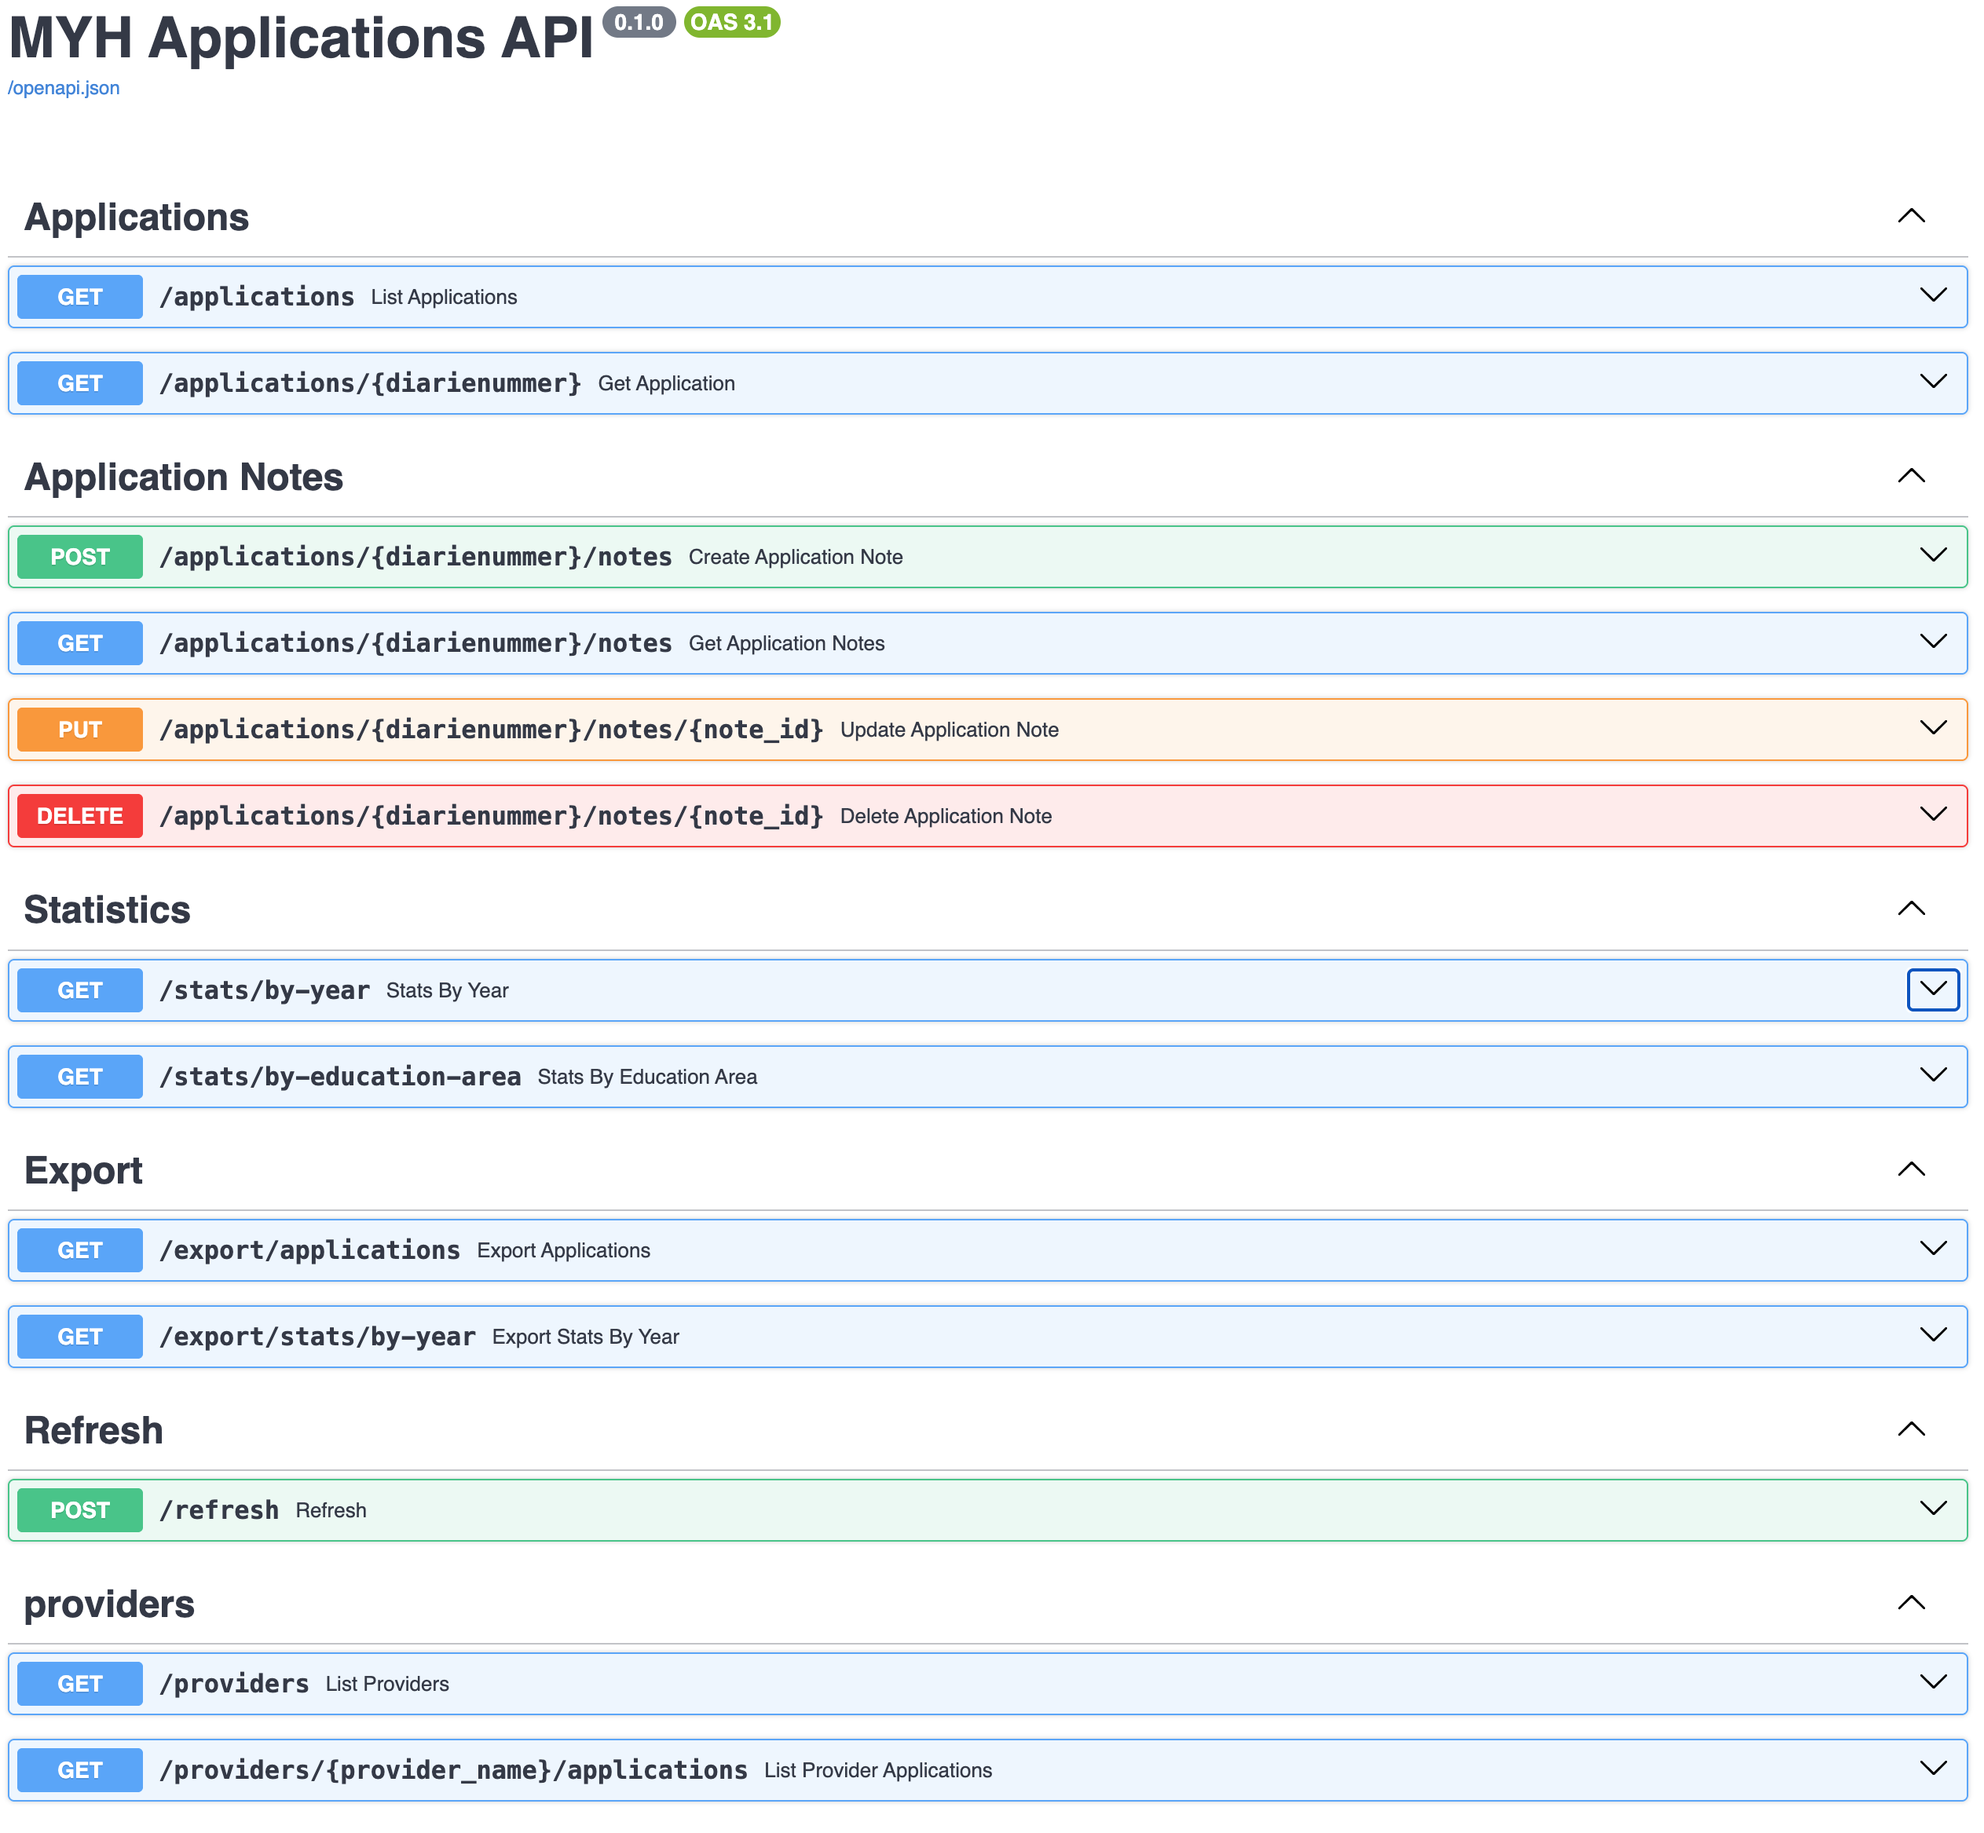
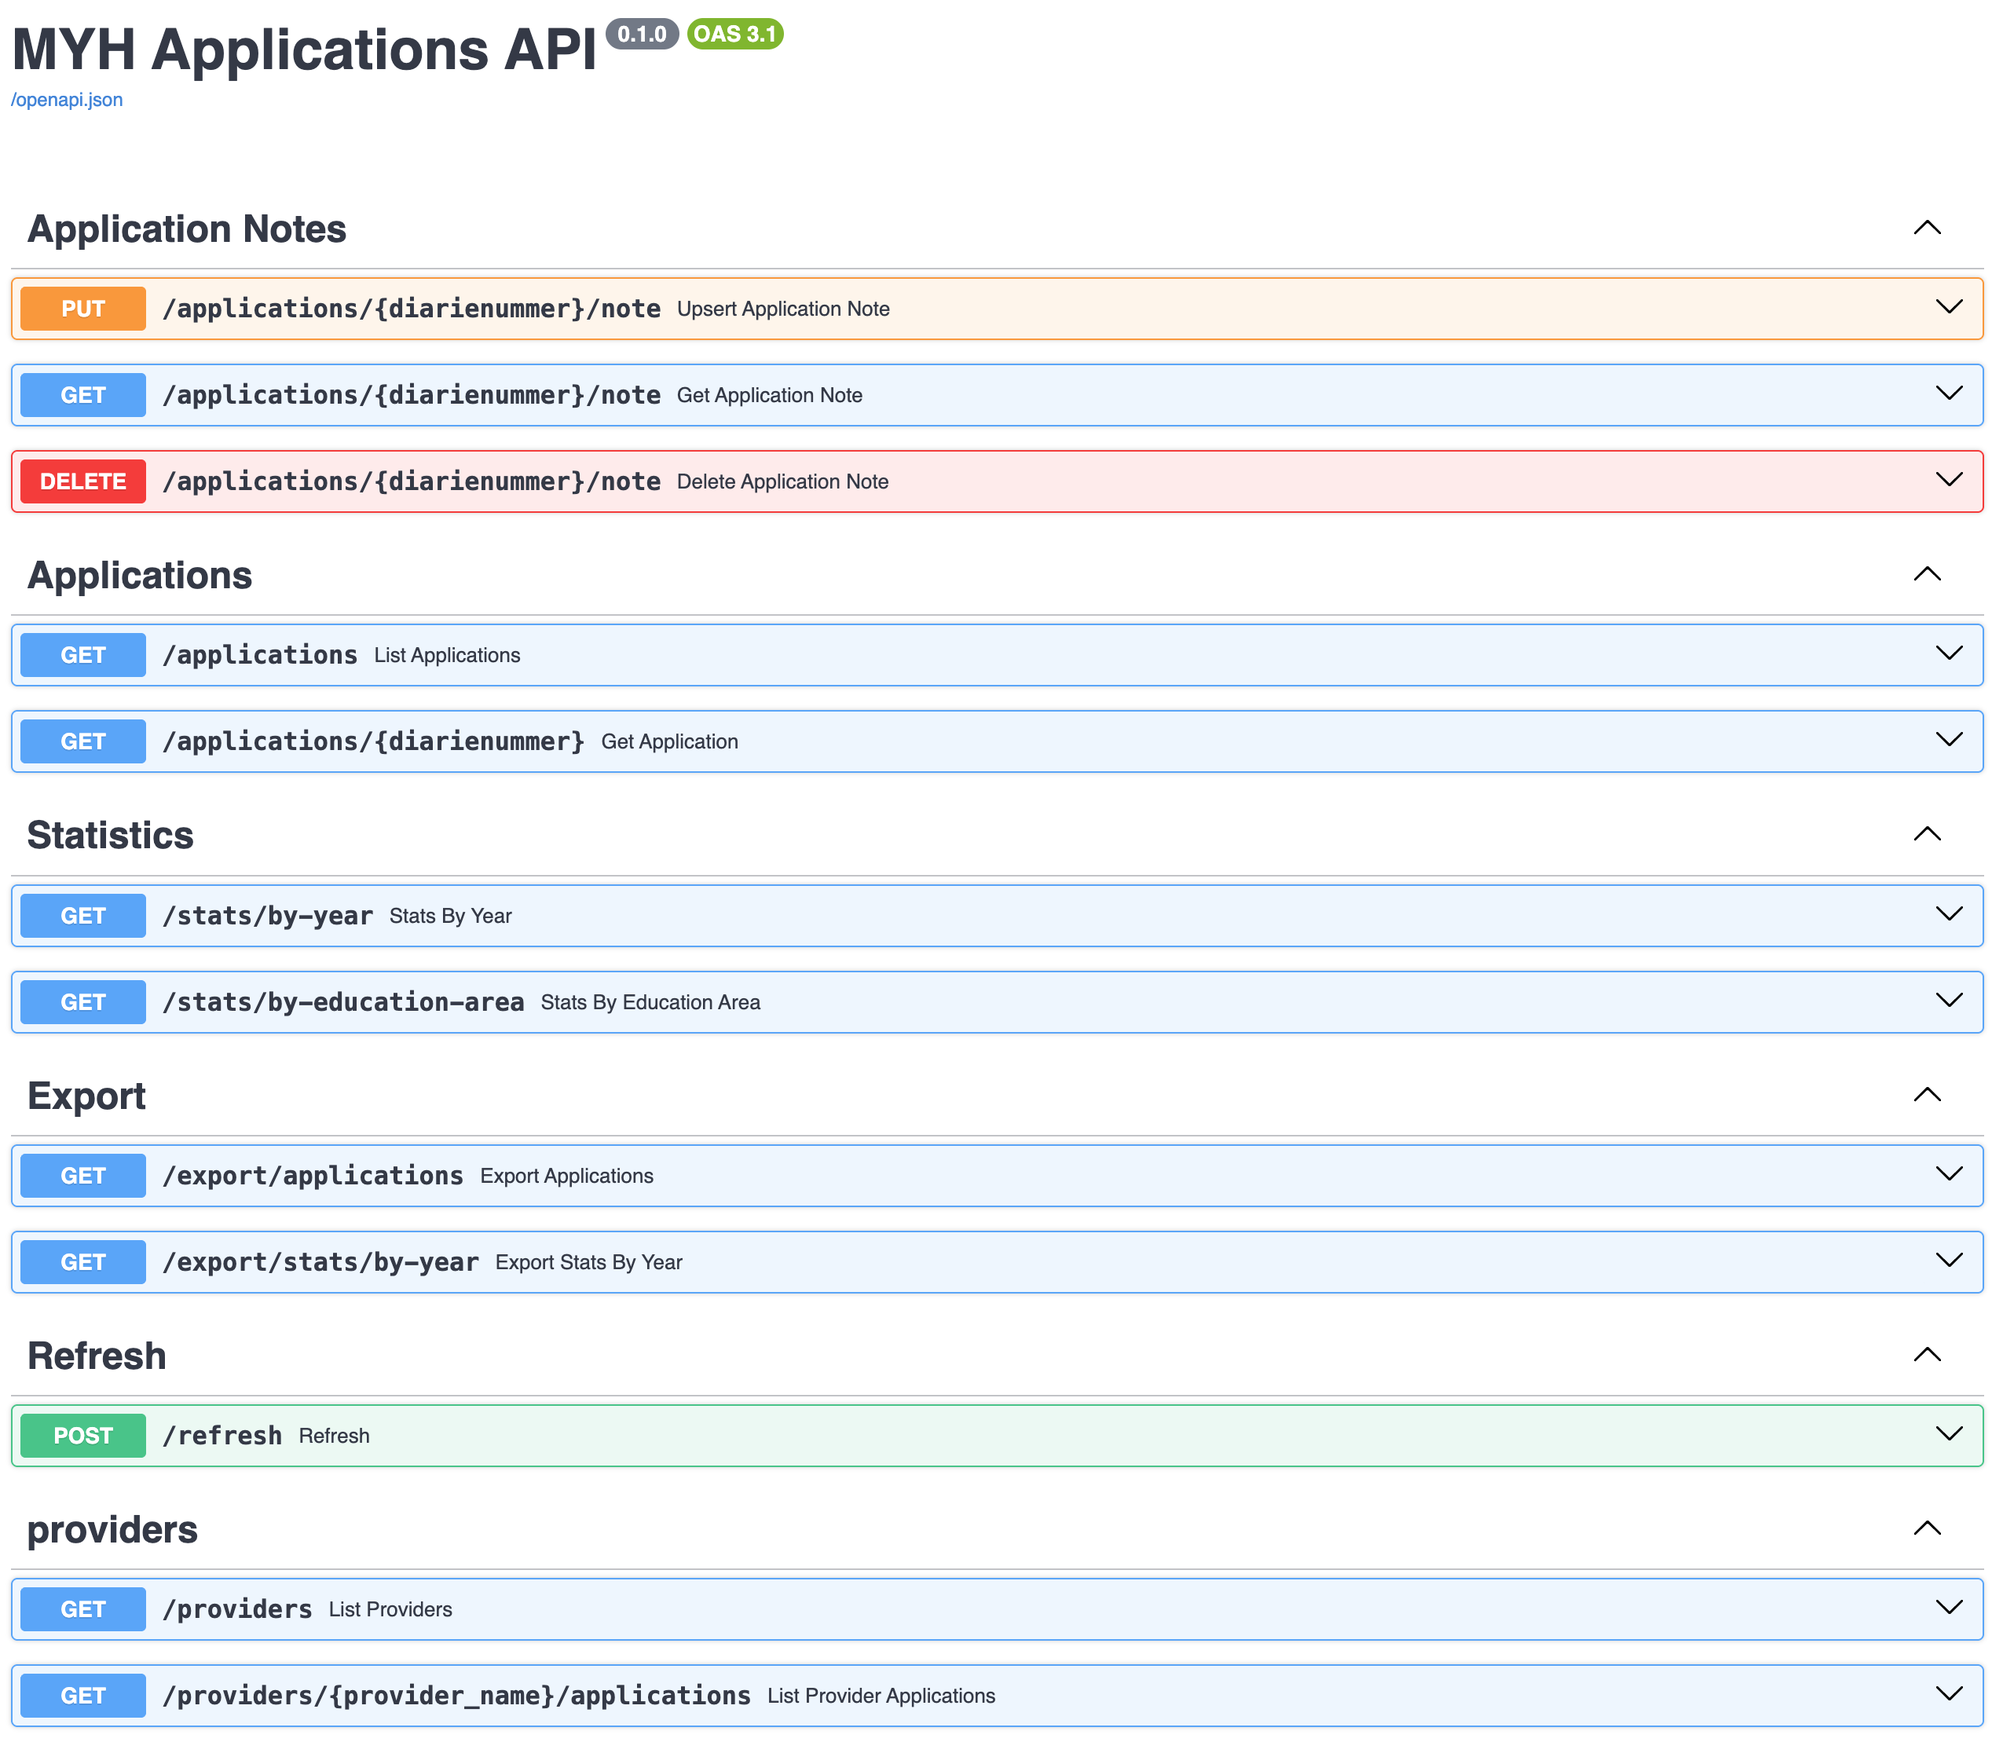
update documents

diff --git a/docs/architecture.md b/docs/architecture.md
@@ -2,7 +2,7 @@
 
 ## Purpose
 
-This project is a data engineering and analytics platform for Swedish YH application data from Myndigheten for yrkeshögskolan (MYH).
+This project is a data engineering and analytics platform for Swedish YH application data from Myndigheten för yrkeshögskolan (MYH).
 
 The system transforms historical Excel files into a curated PostgreSQL dataset, exposes the data through a FastAPI backend, and presents the results in a multipage Streamlit dashboard.
 
@@ -22,7 +22,6 @@ PostgreSQL Database
 FastAPI Backend
     ↓
 Streamlit Dashboard
-```
 
 ---
 
@@ -56,13 +55,15 @@ project_root/
 
 ## API Layer
 
-The FastAPI backend uses a lightweight layered structure:
+The FastAPI backend uses a lightweight layered structure.
 
 | Module | Responsibility |
 |---|---|
 | `routers/` | API endpoints |
 | `services/` | SQL queries and business logic |
 | `schemas/` | Pydantic request and response models |
+| `dependencies/security.py` | API key validation for protected endpoints |
+| `core/config.py` | Environment-based API configuration |
 | `main.py` | FastAPI application entry point |
 
 Main API areas:
@@ -71,6 +72,7 @@ Main API areas:
 - statistics
 - providers
 - export
+- notes
 - refresh operations
 
 ---
@@ -104,13 +106,19 @@ instead of ORM models.
 
 This keeps SQL explicit and easier to inspect during development.
 
+### Protected Operational Endpoints
+
+The refresh endpoint is protected with an API key because it triggers a full database rebuild operation.
+
 ### Thin Router Pattern
 
 Routers remain lightweight while query logic stays in the service layer.
 
-### Multipage Streamlit Structure
+### Component-Based Streamlit Structure
 
-Frontend logic is separated into reusable modules to avoid large monolithic dashboard files.
+The frontend separates reusable Streamlit UI components from data loading and utility logic.
+
+This keeps dashboard pages smaller and easier to maintain.
 
 ---
 

diff --git a/docs/api_design.md b/docs/api_design.md
@@ -10,7 +10,7 @@ Main features:
 - filtering
 - statistics
 - CSV export
-- notes
+- application notes
 - refresh operations
 
 ---
@@ -29,10 +29,9 @@ FastAPI automatically generates interactive API documentation through Swagger UI
 |---|---|---|
 | GET | `/applications` | Return filtered application records |
 | GET | `/applications/{diarienummer}` | Return a single application |
-| POST | `/applications/{diarienummer}/notes` | Create an application note |
-| GET | `/applications/{diarienummer}/notes` | Return application notes |
-| PUT | `/applications/{diarienummer}/notes/{note_id}` | Update an application note |
-| DELETE | `/applications/{diarienummer}/notes/{note_id}` | Delete an application note |
+| PUT | `/applications/{diarienummer}/note` | Create or update an application note |
+| GET | `/applications/{diarienummer}/note` | Return an application note |
+| DELETE | `/applications/{diarienummer}/note` | Delete an application note |
 | GET | `/stats/by-year` | Return yearly application statistics |
 | GET | `/stats/by-education-area` | Return statistics grouped by education area |
 | GET | `/export/applications` | Export application data as CSV |
@@ -43,16 +42,13 @@ FastAPI automatically generates interactive API documentation through Swagger UI
 
 ---
 
-## Local Development
+## Protected Refresh Endpoint
 
-Run the API with:
+The refresh endpoint triggers a full rebuild and reload of the curated dataset.
 
-```bash
-python -m uvicorn part_3.api.main:app --reload
-```
+Because this operation modifies the database, the endpoint is protected with a simple API key header.
 
-For full setup instructions, see:
+Required request header:
 
-```text
-docs/deployment.md
-```
+```http
+x-api-key: <refresh-api-key>

diff --git a/docs/streamlit_structure.md b/docs/streamlit_structure.md
@@ -7,12 +7,7 @@ The Streamlit app is the frontend for the MYH applications analytics platform.
 Main features:
 
 - interactive dashboard
-- filtering
-- KPI metrics
-- charts
 - notebook preview
-- CSV export
-- refresh operations
 
 The frontend lives in:
 
@@ -34,6 +29,7 @@ streamlit_app/
 streamlit_app/
 ├── app.py
 ├── pages/
+├── components/
 └── core/
 ```
 
@@ -45,6 +41,11 @@ streamlit_app/
 |---|---|
 | `app.py` | Streamlit entry point |
 | `pages/` | User-facing Streamlit pages |
+| `components/` | Reusable Streamlit UI components |
+| `components/application_table.py` | Filtered applications table and row selection |
+| `components/application_note.py` | Application note display and CRUD operations |
+| `components/export_button.py` | Reusable CSV export button |
+| `components/refresh_section.py` | Protected refresh UI with API key input |
 | `core/api_client.py` | HTTP communication with FastAPI |
 | `core/config.py` | Frontend constants and endpoint paths |
 | `core/data_loader.py` | Dashboard data loading helpers |
@@ -63,6 +64,7 @@ Current dashboard functionality includes:
 - education area statistics
 - filtered application table
 - provider filtering
+- application notes
 - CSV export
 - refresh operations
 
@@ -84,7 +86,7 @@ streamlit_app/notebooks/
 
 The frontend keeps:
 
-- UI logic inside Streamlit pages
+- reusable UI components
 - reusable logic inside `core/`
 - API communication separated in `api_client.py`
 
